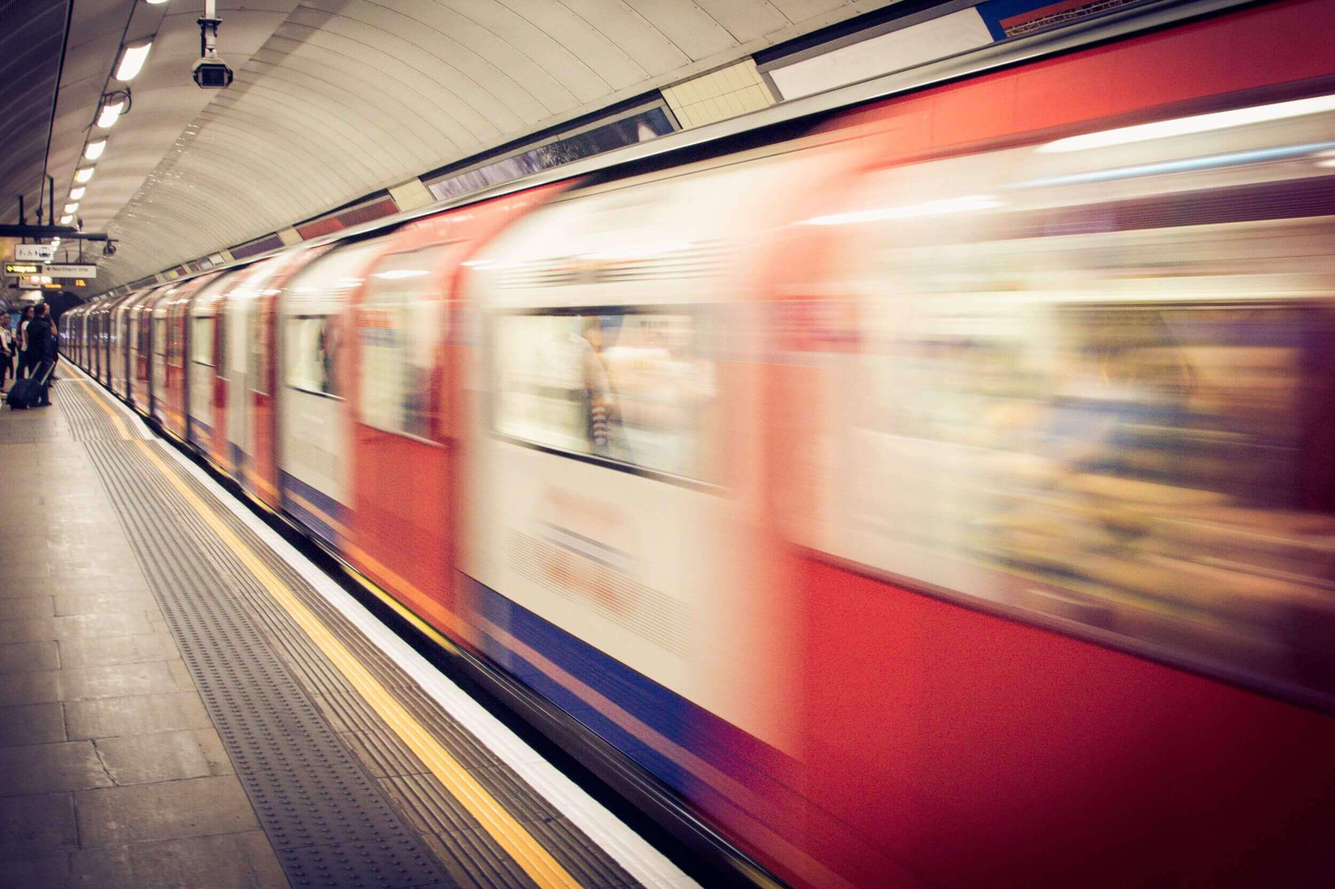
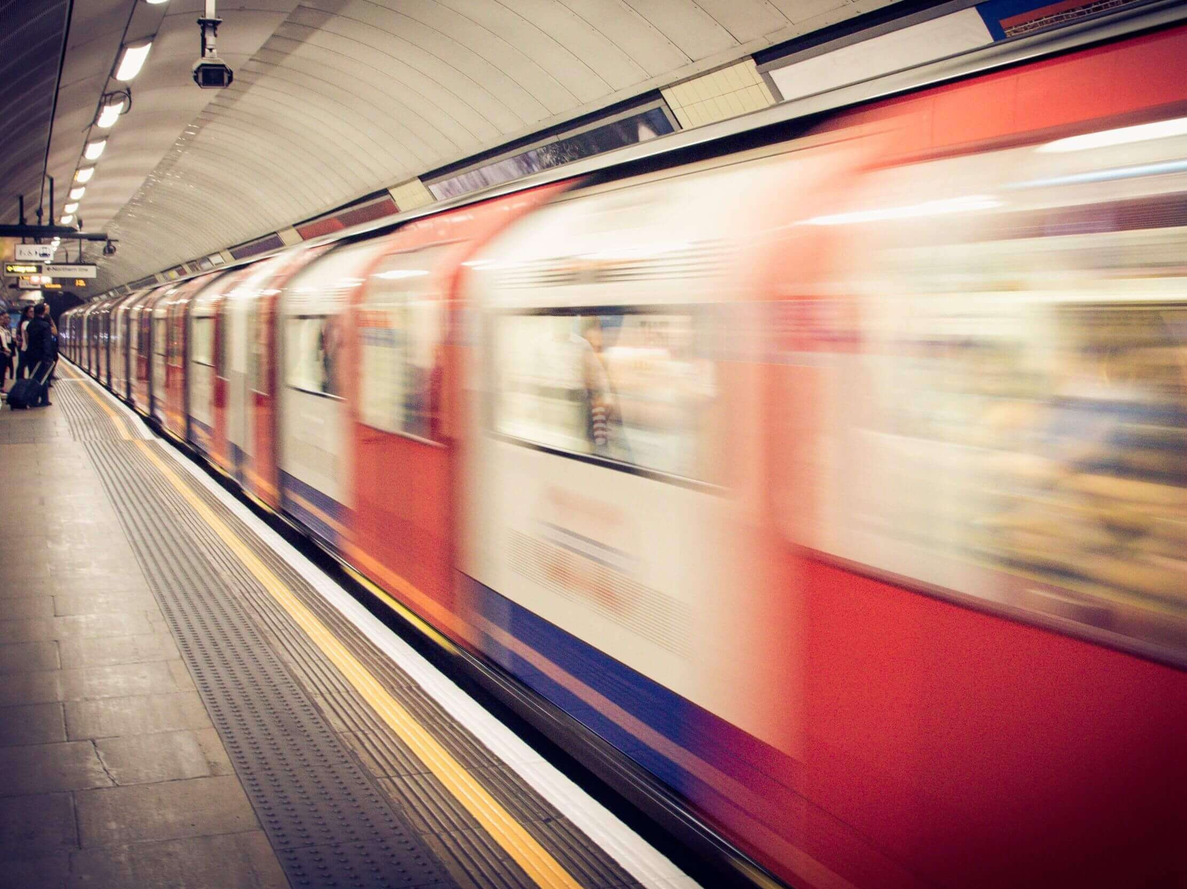
FZ4A-16 slider, zmiany wg uwag: podmiana zdjęć, usunięcie strzałek, margines górny

diff --git a/lib/style.css b/lib/style.css
@@ -113,6 +113,10 @@ body {
 
 /*style dla #start (slide)*/
 
+#start {
+  margin-top: 66px;
+}
+
 #start .container-fluid {
   padding-right: 0;
   padding-left: 0;
@@ -131,7 +135,6 @@ body {
 
 .slide .img-responsive {
   height: inherit;
-  max-height: 100%;
 }
 
 .assign-button-wrapper {
@@ -143,6 +146,8 @@ body {
   width: 400px;
   background: rgba(181, 67, 40, 0.7);
 }
+
+
 
 @media (max-width: 767px) {
   .slide .motto {
@@ -173,18 +178,27 @@ body {
 }
 
 /* Next & previous buttons */
-.prev, .next {
-  cursor: pointer;
-  position: absolute;
-  top: 50%;
-  width: auto;
-  margin-top: -22px;
-  padding: 16px;
-  color: white;
-  font-weight: bold;
-  font-size: 18px;
-  transition: 0.6s ease;
-  border-radius: 0 3px 3px 0;
+
+@media (max-width: 500px) {
+  .prev, .next {
+    display: none;
+  }
+}
+
+@media (min-width: 501px) {
+  .prev, .next {
+    cursor: pointer;
+    position: absolute;
+    top: 50%;
+    width: auto;
+    margin-top: -22px;
+    padding: 16px;
+    color: white;
+    font-weight: bold;
+    font-size: 18px;
+    transition: 0.6s ease;
+    border-radius: 0 3px 3px 0;
+  }
 }
 
 /* Position the "next button" to the right */
